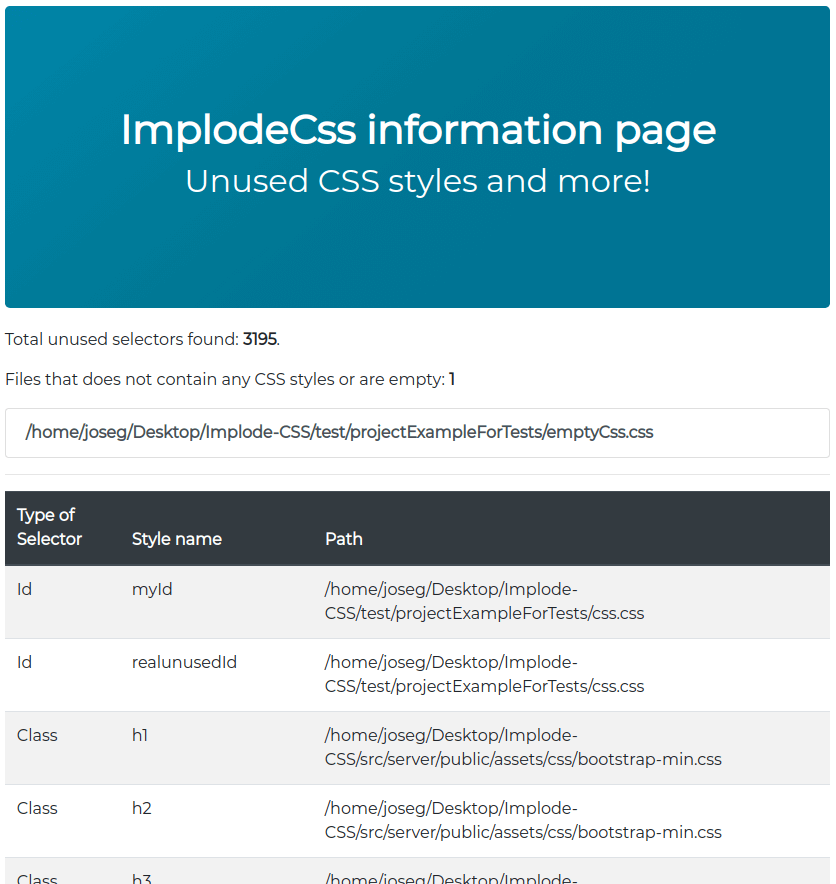
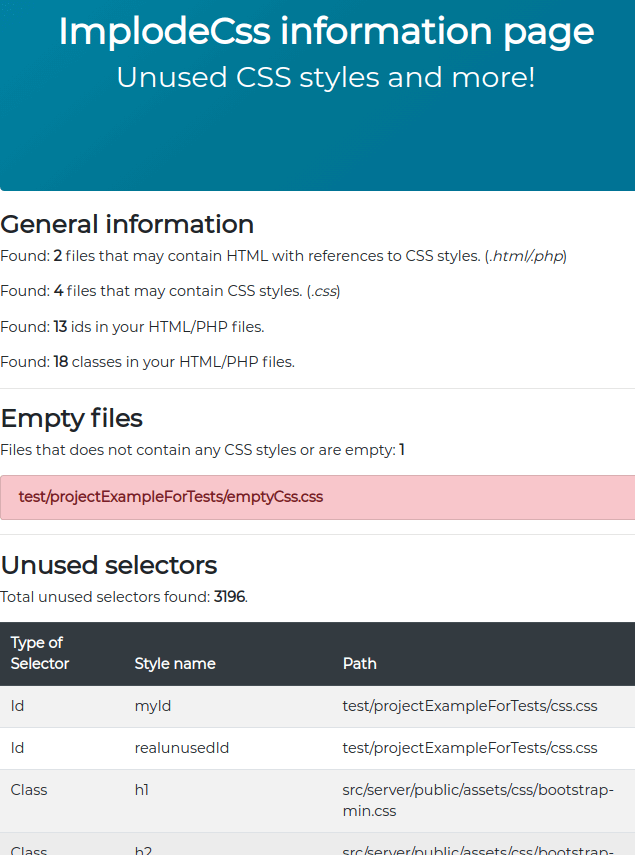
v1.3.0 see Changelog.md

diff --git a/src/main.js b/src/main.js
@@ -58,9 +58,6 @@ module.exports = class ImplodeCssClass {
         const htmlPhpFiles = getArrayHtmlPhpPaths(this.options.folderToImplode, this.options.ignore);
         const cssFiles = findFilesInDir(this.options.folderToImplode, '.css', this.options.ignore);
 
-        console.log(`Found: ${chalk.bold.yellow(htmlPhpFiles.length)} files that may contain references to CSS styles. (.html/.php)`);
-        console.log(`Found: ${chalk.bold.yellow(cssFiles.length)} files that contain CSS styles. (.css)\n`);
-
         // if there is not enough files to look for.
         if (htmlPhpFiles.length === 0 || cssFiles.length === 0) {
             exitCodes(404); // it will stop the process.
@@ -74,9 +71,6 @@ module.exports = class ImplodeCssClass {
             ids = ids.concat(getIdsReferencedInHtml(htmlPhpFiles[i]));
             classes = classes.concat(getClassesReferencedInHtml(htmlPhpFiles[i]));
         }
-
-        console.log(`Found: ${chalk.bold.yellow(ids.length)} total ${chalk.bold('ids')} in your HTML/PHP files.`);
-        console.log(`Found: ${chalk.bold.yellow(classes.length)} total ${chalk.bold('classes')} in your HTML/PHP files.\n`);
 
         let unusedArray = getUnusedCss(cssFiles, ids, classes);
         const test = {

diff --git a/src/controller/geCssUnused.js b/src/controller/geCssUnused.js
@@ -9,8 +9,6 @@
  */
 
 import fs from 'fs';
-import chalk from 'chalk';
-
 
 /**
  * Summary getUnusedCss receives all the css files, and all the ids and classes found from
@@ -89,7 +87,6 @@ export function getUnusedCss(cssFiles, idsFoundHTML, classFoundHTML) {
     // check for files without any CSS selector and adds it to an array.
     for (let i = 0; i < classInCss.length; i++) {
         if (classInCss[i].css === null && idsInCss[i].css === null) {
-            console.log(`${chalk.bgRed('Unconsistency')} - File: '${chalk.bold(classInCss[i].path)}'. does not contain any CSS styles!`);
             emptyCssFiles = emptyCssFiles.concat({
                 emptyFiles: classInCss[i].path,
             });

diff --git a/CHANGELOG.md b/CHANGELOG.md
@@ -7,12 +7,29 @@ The format is based on [Keep a Changelog](https://keepachangelog.com/en/1.0.0/) 
 
 ---
 
-[UNRELEASED]
+## [**1.3.0**] - 2019-12-19
 
 ### Added
 
 * More information about the author in the package.json file.
 * Funding link in the package.json file.
+* Errors are now controlled in the webpage.
+* The webpage will show the number of html/php files found.
+* The webpage will show the number of css files found.
+* The webpage will show the number of ids found.
+* The webpage will show the number of classes found.
+* Better readability at the webpage.
+* Better readability in the main.js file.
+
+### Changed
+
+* The CLI command will not show the files that doesn't contain CSS styles (empty).
+* The CLI command will not show the number of html/php files found.
+* The CLI command will not show the number of css files found.
+* The CLI command will not show the number of ids found.
+* The CLI command will not show the number of classes found.
+* Image of the webpage in the readme.md file.
+* Updated dependencies.
 
 ### Fixed
 
@@ -20,6 +37,11 @@ The format is based on [Keep a Changelog](https://keepachangelog.com/en/1.0.0/) 
 * If the server finds an error, it will try to close it in an expected way before showing the error.
 * The extension will only show if there is a new version, if the user invokes the command implodeCss.
 * Some typos.
+
+### Removed
+
+* Upcoming features in the readme.md file.
+* Chalk import in the src/controller/getCssUnused.js file.
 
 ## [**1.2.0**] - 2019-12-13
 

diff --git a/README.md b/README.md
@@ -86,7 +86,7 @@ sudo npm install -g @josee9988/implode-css
 
 - **Table** with all the unused selectors and more information.
 
-<img src="https://i.imgur.com/h2TFAEU.png" alt="table with unused selectors" title="table with unused selectors" style="border-radius:15px; box-shadow: 6px 6px  #282829; max-height: 500px; max-width:500px;margin-left: auto; margin-right:auto;display: block;margin-left: auto;margin-right:auto;width:50%;"/>
+<img src="https://i.imgur.com/vkXgq70.png" alt="table with unused selectors" title="table with unused selectors" style="border-radius:15px; box-shadow: 6px 6px  #282829; max-height: 500px; max-width:500px;margin-left: auto; margin-right:auto;display: block;margin-left: auto;margin-right:auto;width:50%;"/>
 
 - **Help** command: `implodeCss -h`
 
@@ -99,12 +99,6 @@ sudo npm install -g @josee9988/implode-css
 - If you do not specify the option to perform...
 
 <img src="https://i.imgur.com/l67EvSs.png" alt="option not specified" title="option not specified" style="border-radius:15px; box-shadow: 6px 6px  #282829; max-height: 500px; max-width:500px;margin-left: auto; margin-right:auto;display: block;margin-left: auto;margin-right:auto;width:50%;"/>
-
----
-
-### **Upcoming features**
-
-- [ ] Make the project **usable by other packages**. Will probably come in version 1.2.
 
 ---
 
